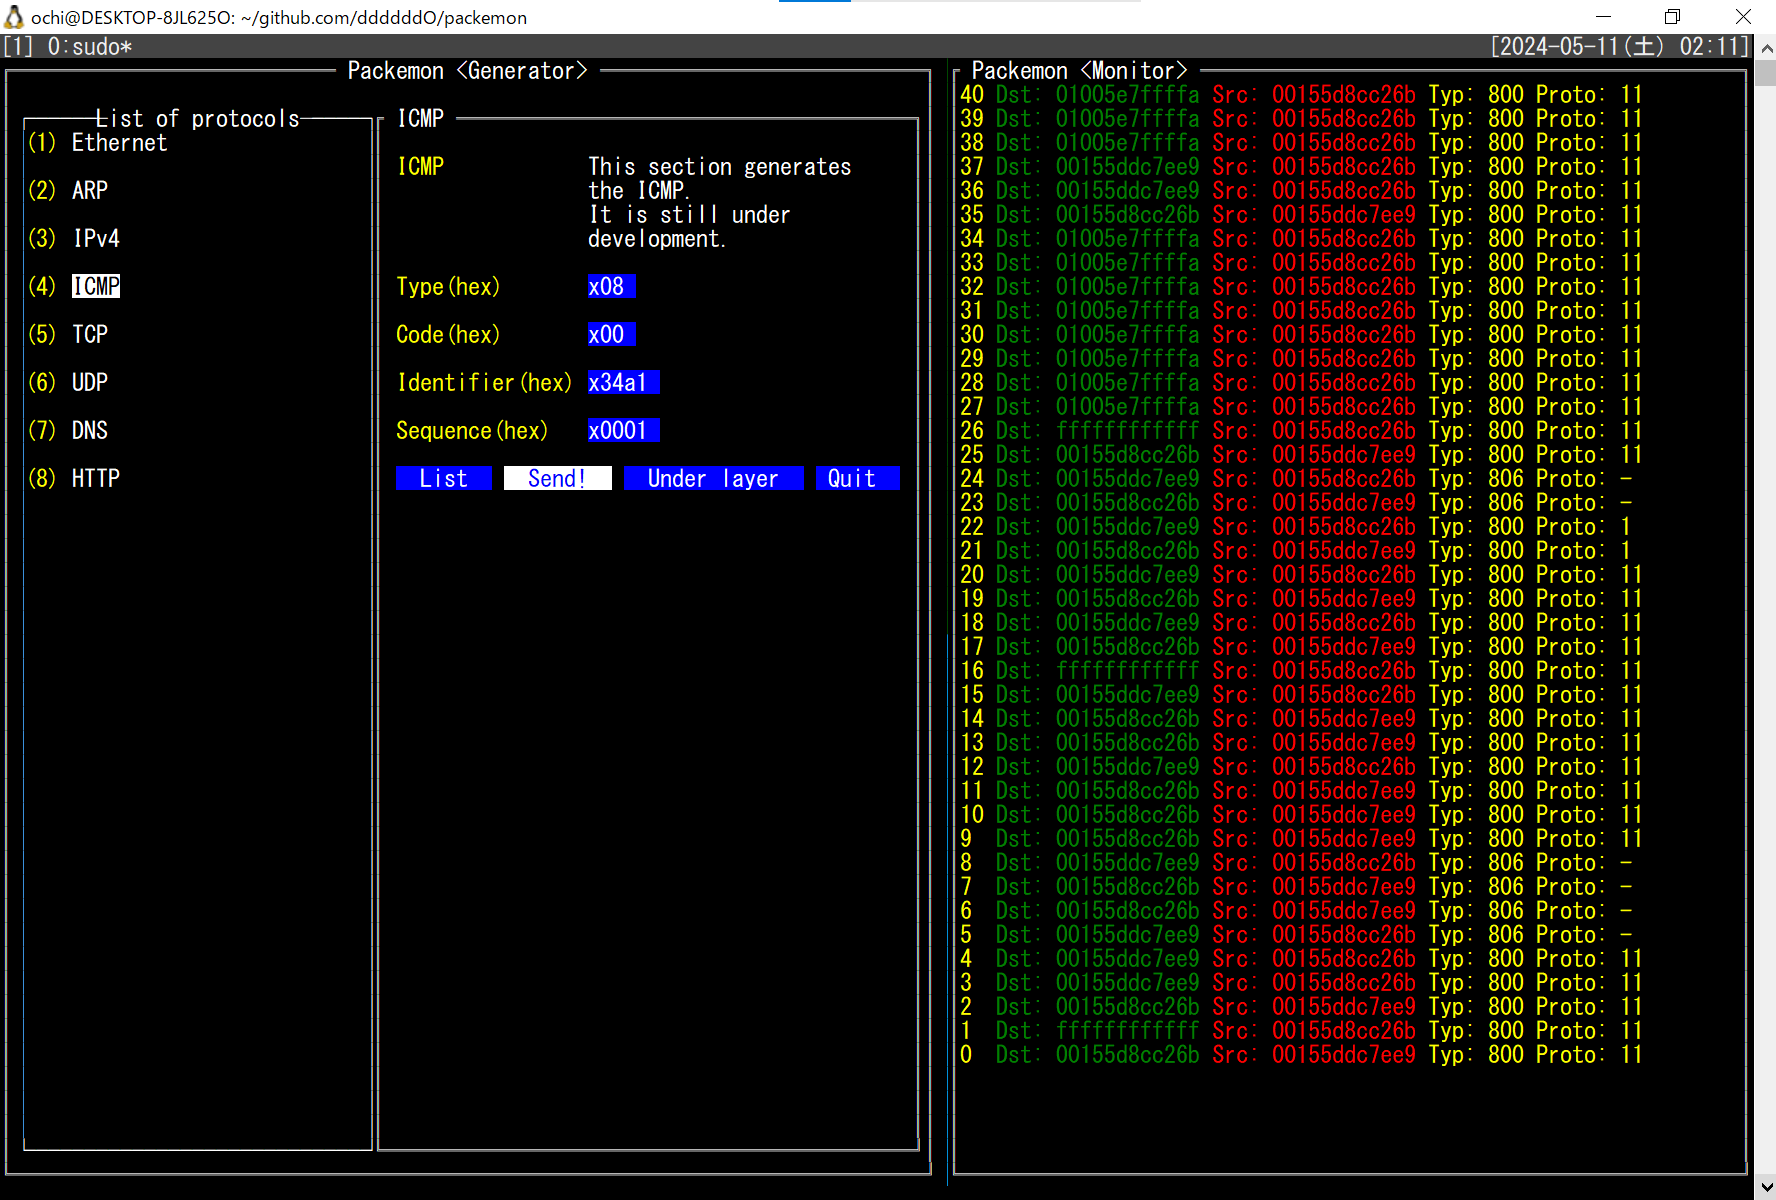
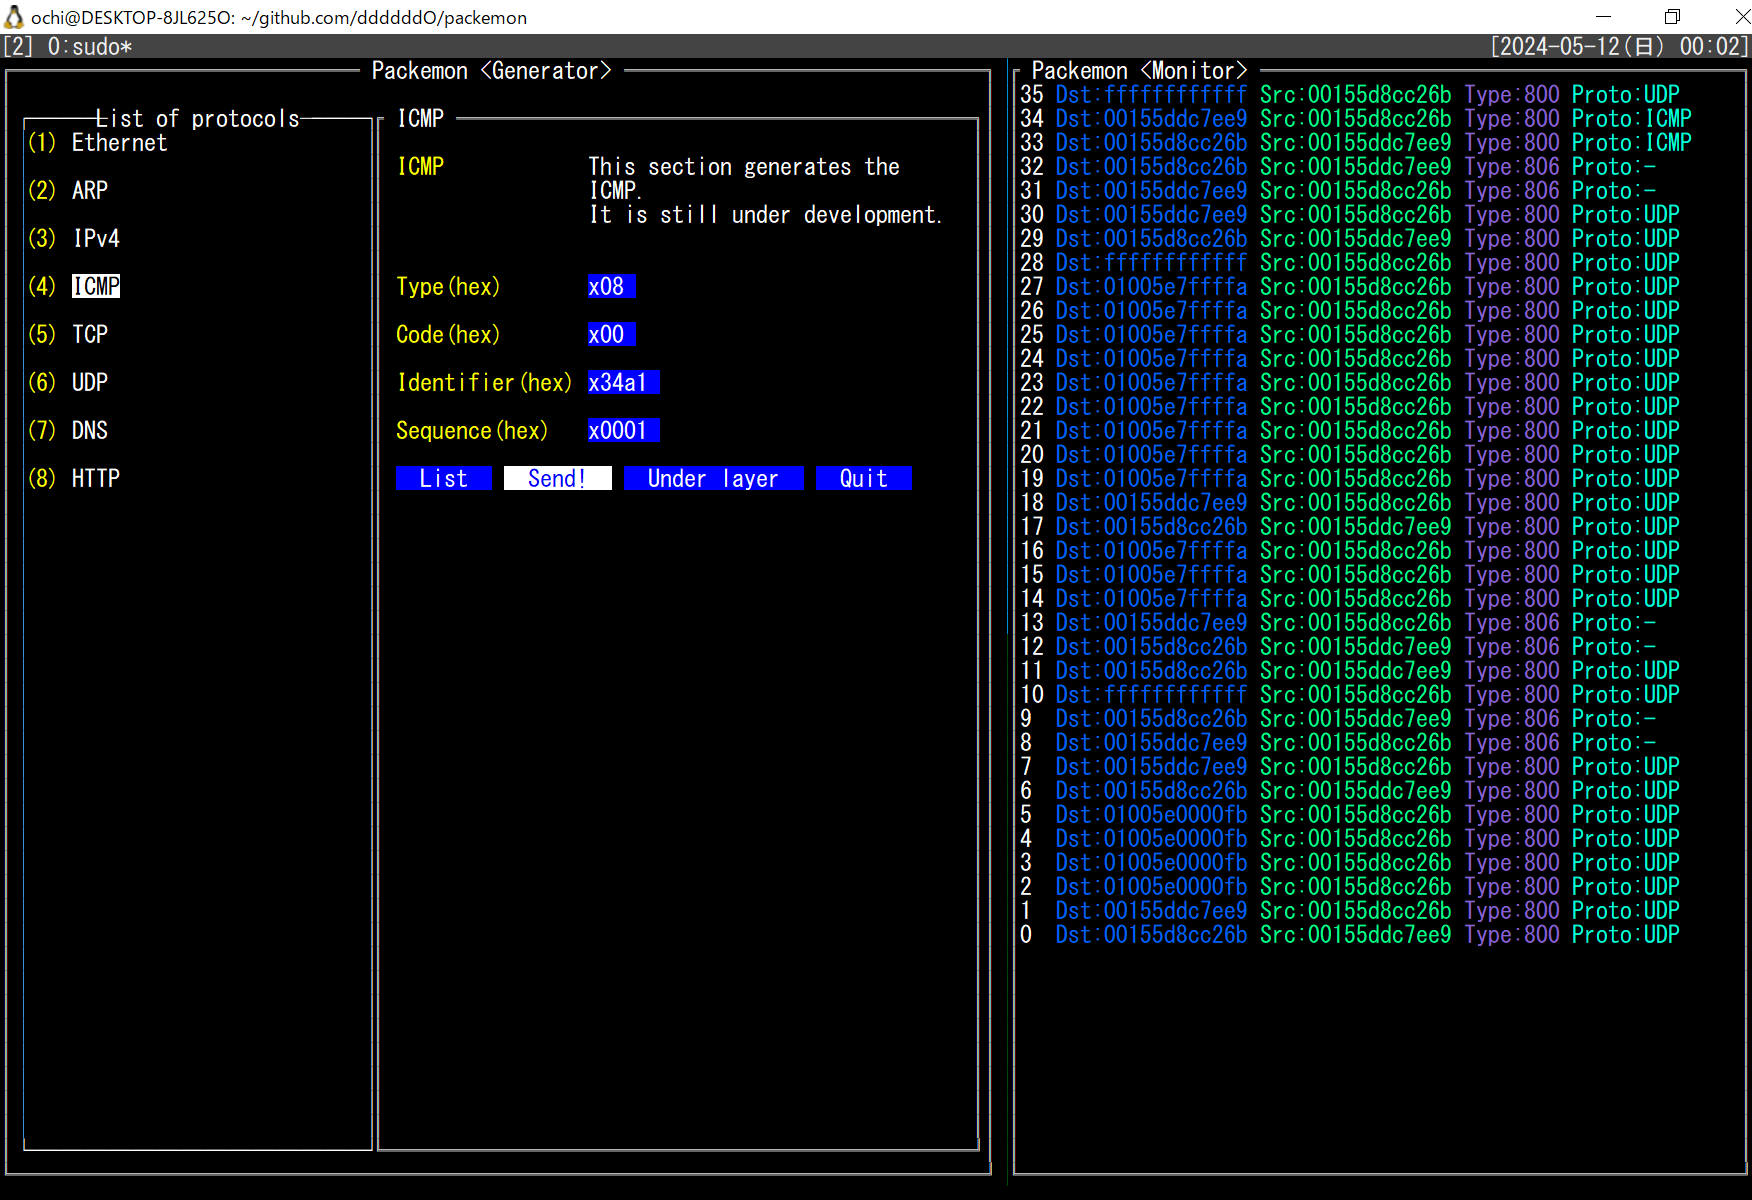
modify

Changed region(s): [[0.0, 0.0, 1.0, 1.0], [0.0, 0.2775, 0.0616, 0.4008], [0.0, 0.1542, 0.0616, 0.2775]]

diff --git a/tui/history.go b/tui/history.go
@@ -52,16 +52,16 @@ func (t *tui) updateTable(passiveCh <-chan *packemon.Passive) {
 	id := 0
 	for passive := range passiveCh {
 		r := &HistoryRow{
-			id:             tview.NewTableCell(fmt.Sprintf("%d", id)).SetTextColor(tview.Styles.SecondaryTextColor),
-			destinationMAC: tview.NewTableCell(fmt.Sprintf("Dst:%x", passive.EthernetFrame.Header.Dst)).SetTextColor(tcell.ColorGreen),
-			sourceMAC:      tview.NewTableCell(fmt.Sprintf("Src:%x", passive.EthernetFrame.Header.Src)).SetTextColor(tcell.ColorRed),
-			typ:            tview.NewTableCell(fmt.Sprintf("Typ:%x", passive.EthernetFrame.Header.Typ)).SetTextColor(tcell.ColorYellow),
+			id:             tview.NewTableCell(fmt.Sprintf("%d", id)).SetTextColor(tcell.ColorWhite),
+			destinationMAC: tview.NewTableCell(fmt.Sprintf("Dst:%x", passive.EthernetFrame.Header.Dst)).SetTextColor(tcell.Color27),
+			sourceMAC:      tview.NewTableCell(fmt.Sprintf("Src:%x", passive.EthernetFrame.Header.Src)).SetTextColor(tcell.Color48),
+			typ:            tview.NewTableCell(fmt.Sprintf("Type:%x", passive.EthernetFrame.Header.Typ)).SetTextColor(tcell.Color98),
 		}
 
 		if passive.IPv4 != nil {
-			r.protocol = tview.NewTableCell(fmt.Sprintf("Proto:%s", packemon.IPv4Protocols[passive.IPv4.Protocol])).SetTextColor(tcell.ColorYellow)
+			r.protocol = tview.NewTableCell(fmt.Sprintf("Proto:%s", packemon.IPv4Protocols[passive.IPv4.Protocol])).SetTextColor(tcell.Color50)
 		} else {
-			r.protocol = tview.NewTableCell(fmt.Sprintf("Proto:%s", "-")).SetTextColor(tcell.ColorYellow)
+			r.protocol = tview.NewTableCell(fmt.Sprintf("Proto:%s", "-")).SetTextColor(tcell.Color50)
 		}
 
 		t.storedPackets.Store(id, passive)

diff --git a/tui/view_ethernet.go b/tui/view_ethernet.go
@@ -12,7 +12,7 @@ type EthernetFrame struct {
 }
 
 func (*EthernetFrame) rows() int {
-	return 10
+	return 7
 }
 
 func (*EthernetFrame) columns() int {
@@ -20,8 +20,8 @@ func (*EthernetFrame) columns() int {
 }
 
 func (ef *EthernetFrame) viewTable() *tview.Table {
-	ethTable := tview.NewTable().SetBorders(true)
-	ethTable.Box = tview.NewBox().SetBorder(true).SetTitle(" Ethernet Header ")
+	ethTable := tview.NewTable().SetBorders(false)
+	ethTable.Box = tview.NewBox().SetBorder(true).SetTitle(" Ethernet Header ").SetTitleAlign(tview.AlignLeft).SetBorderPadding(1, 1, 1, 1)
 
 	ethTable.SetCell(0, 0, tview.NewTableCell(padding("Destination MAC Addr")))
 	ethTable.SetCell(0, 1, tview.NewTableCell(padding(fmt.Sprintf("%x", ef.Header.Dst))))

diff --git a/tui/view_ipv4.go b/tui/view_ipv4.go
@@ -14,7 +14,7 @@ type IPv4 struct {
 }
 
 func (*IPv4) rows() int {
-	return 28
+	return 16
 }
 
 func (*IPv4) columns() int {
@@ -22,8 +22,8 @@ func (*IPv4) columns() int {
 }
 
 func (i *IPv4) viewTable() *tview.Table {
-	ipv4Table := tview.NewTable().SetBorders(true)
-	ipv4Table.Box = tview.NewBox().SetBorder(true).SetTitle(" IPv4 Header ")
+	ipv4Table := tview.NewTable().SetBorders(false)
+	ipv4Table.Box = tview.NewBox().SetBorder(true).SetTitle(" IPv4 Header ").SetTitleAlign(tview.AlignLeft).SetBorderPadding(1, 1, 1, 1)
 
 	ipv4Table.SetCell(0, 0, tview.NewTableCell(padding("Version")))
 	ipv4Table.SetCell(0, 1, tview.NewTableCell(padding(fmt.Sprintf("%x", i.Version))))

diff --git a/tui/view_icmp.go b/tui/view_icmp.go
@@ -12,7 +12,7 @@ type ICMP struct {
 }
 
 func (*ICMP) rows() int {
-	return 14
+	return 8
 }
 
 func (*ICMP) columns() int {
@@ -20,8 +20,8 @@ func (*ICMP) columns() int {
 }
 
 func (i *ICMP) viewTable() *tview.Table {
-	icmpTable := tview.NewTable().SetBorders(true)
-	icmpTable.Box = tview.NewBox().SetBorder(true).SetTitle(" ICMP Header ")
+	icmpTable := tview.NewTable().SetBorders(false)
+	icmpTable.Box = tview.NewBox().SetBorder(true).SetTitle(" ICMP Header ").SetTitleAlign(tview.AlignLeft).SetBorderPadding(1, 1, 1, 1)
 
 	icmpTable.SetCell(0, 0, tview.NewTableCell(padding("Type")))
 	icmpTable.SetCell(0, 1, tview.NewTableCell(padding(fmt.Sprintf("%x", i.Typ))))

diff --git a/tui/view_arp.go b/tui/view_arp.go
@@ -12,7 +12,7 @@ type ARP struct {
 }
 
 func (*ARP) rows() int {
-	return 22
+	return 13
 }
 
 func (*ARP) columns() int {
@@ -20,8 +20,8 @@ func (*ARP) columns() int {
 }
 
 func (a *ARP) viewTable() *tview.Table {
-	arpTable := tview.NewTable().SetBorders(true)
-	arpTable.Box = tview.NewBox().SetBorder(true).SetTitle(" ARP ")
+	arpTable := tview.NewTable().SetBorders(false)
+	arpTable.Box = tview.NewBox().SetBorder(true).SetTitle(" ARP ").SetTitleAlign(tview.AlignLeft).SetBorderPadding(1, 1, 1, 1)
 
 	arpTable.SetCell(0, 0, tview.NewTableCell(padding("Hardware Type")))
 	arpTable.SetCell(0, 1, tview.NewTableCell(padding(fmt.Sprintf("%x", a.HardwareType))))

diff --git a/README.md b/README.md
@@ -15,7 +15,7 @@ This TUI tool has two major functions: packet generation and packet monitoring.
 ![](./doc/tui_gen_mon_2.png)
 
 This image shows packemon running in Generator / Monitor mode.</br>
-The ICMP echo request packet generated by the Generator on the left is shown in the 21st line of the Monitor. The ICMP echo reply packet is shown as the 22nd line, and a more detailed view of it is shown in the image below.
+The ICMP echo request packet generated by the Generator on the left is shown in the 33st line of the Monitor. The ICMP echo reply packet is shown as the 34nd line, and a more detailed view of it is shown in the image below.
 
 
 ### Packet Generator
